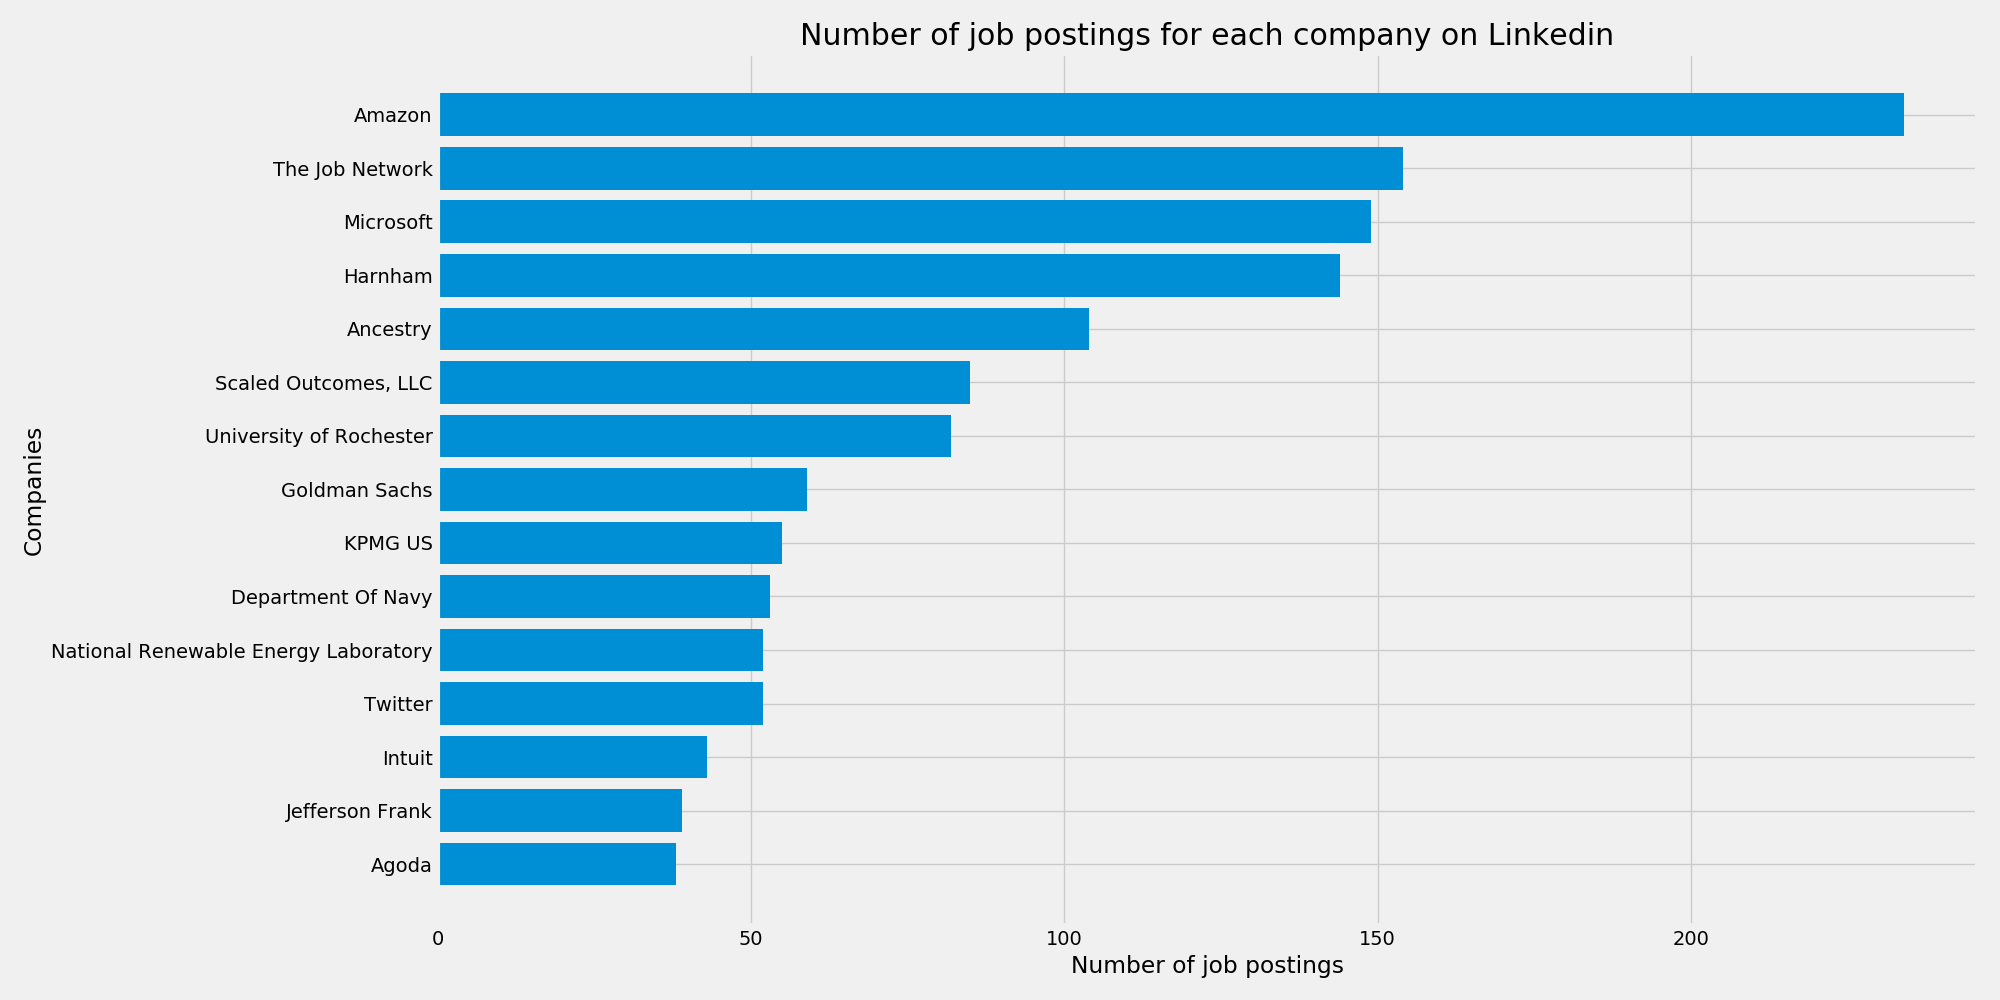
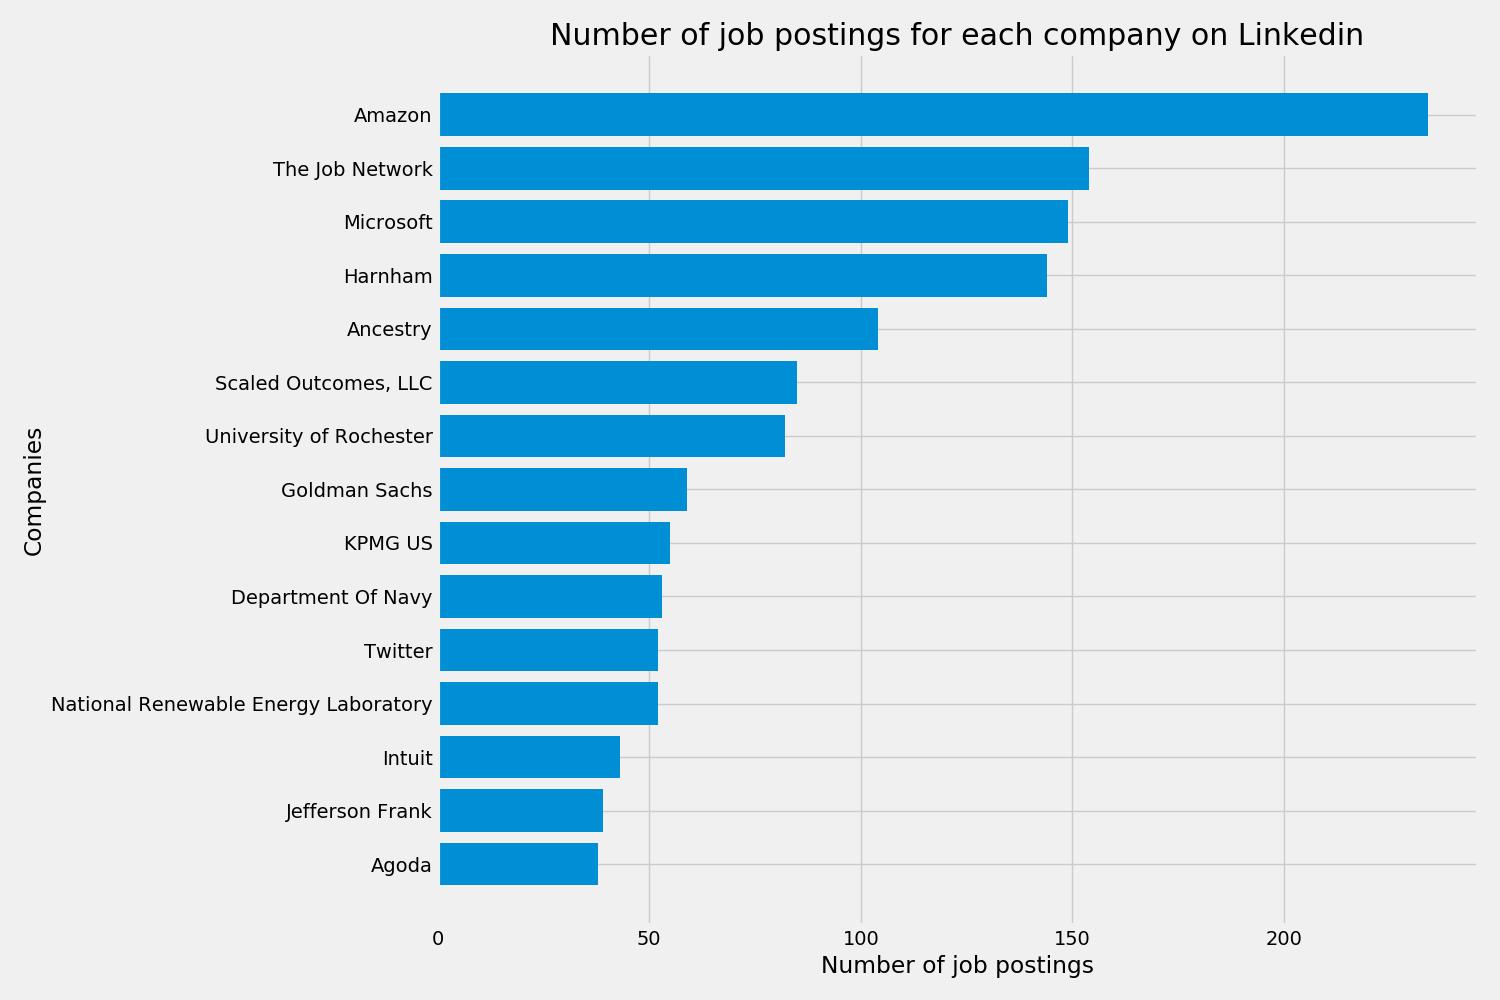
Modified graphs

diff --git a/src/graphing_eda.py b/src/graphing_eda.py
@@ -61,7 +61,7 @@ companies = companies[::-1]
 jobs = df_all['Company'].value_counts().values[:15]
 jobs = jobs[::-1]
 
-fig, ax = plt.subplots(figsize=(20,10))
+fig, ax = plt.subplots(figsize=(15,10))
 plt.rcParams.update({'font.size': 15})
 
 ax.barh(companies, jobs)
@@ -137,7 +137,3 @@ list_of_locs = ['CO', 'CA', 'FL', 'NY', 'UT', 'WA']
 for loc in list_of_locs:
     graph_top10_companies(loc)
 
-# for loc, ax in zip(list_of_locs, axs.flatten()):
-#     graph_top10_companies(loc, ax)
-
-# plt.tight_layout()
